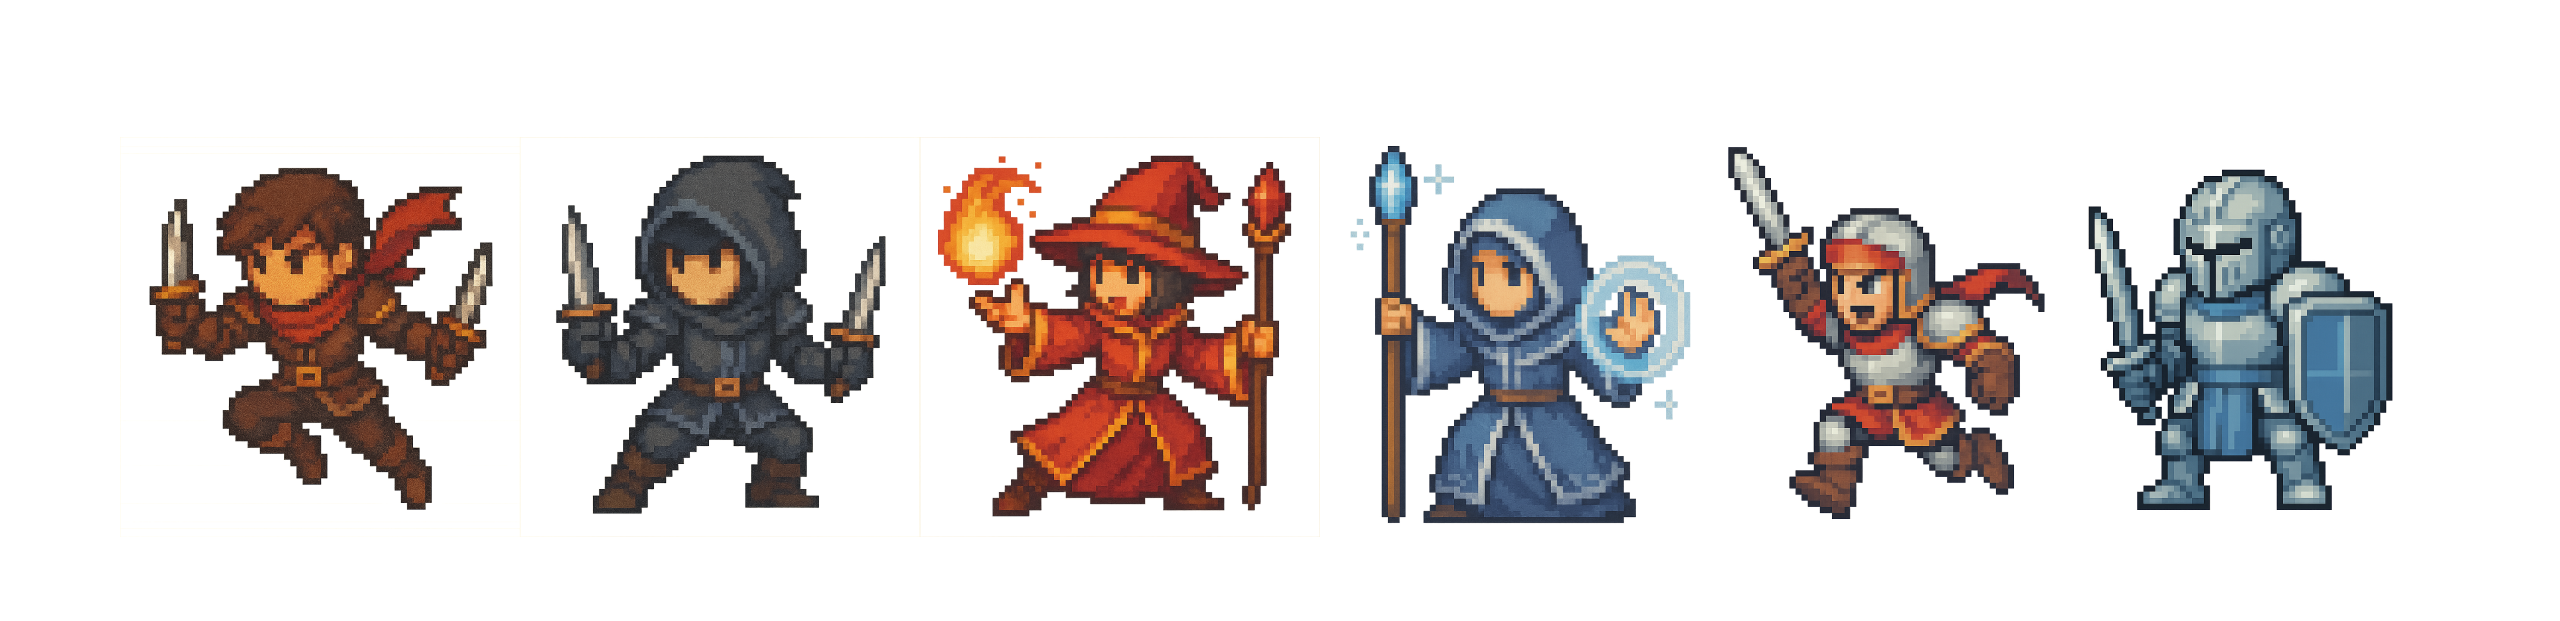
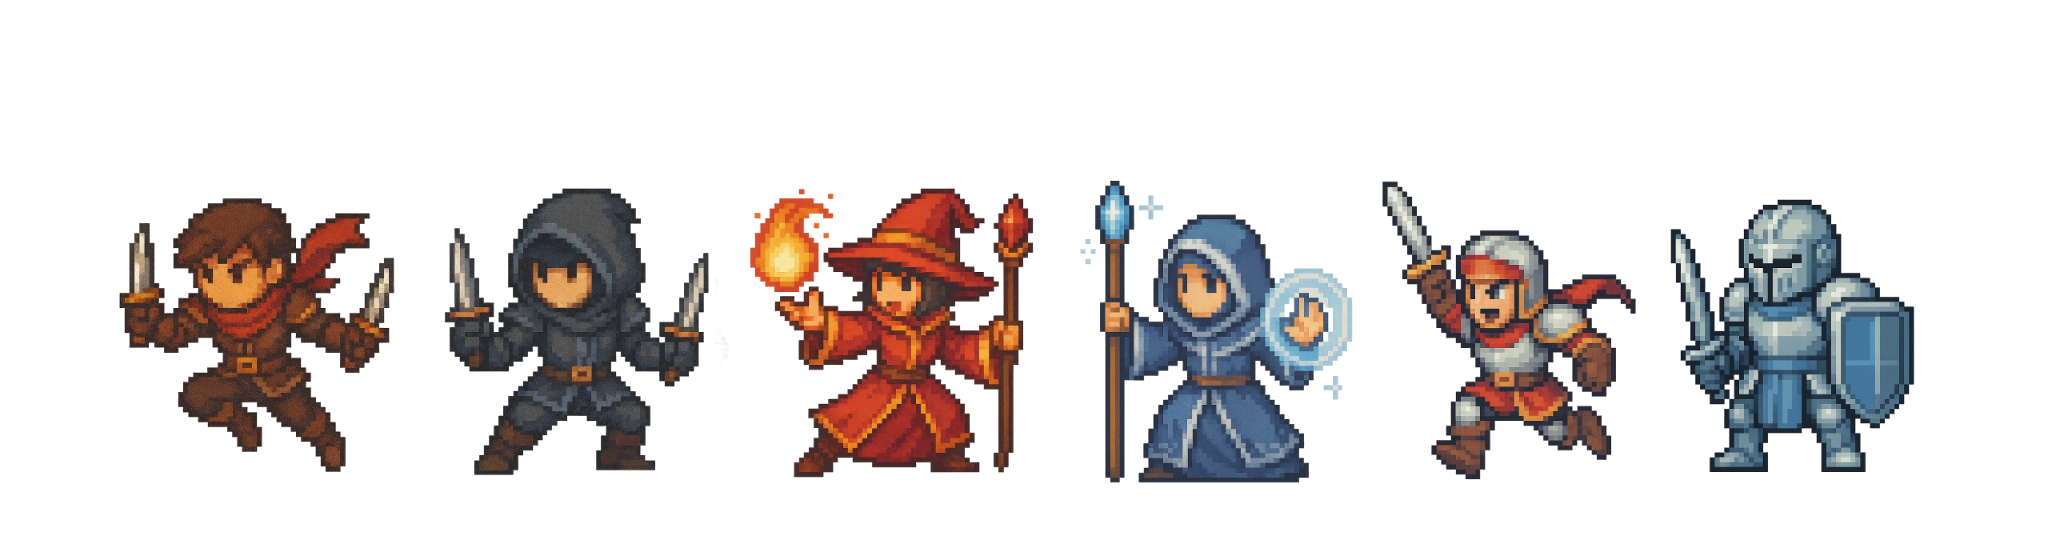
헤더 따로 설정

Changed region(s): [[0.0312, 0.2429, 0.9375, 0.8804]]

diff --git a/frontend/src/Search.css b/frontend/src/Search.css
@@ -1,37 +1,10 @@
+@import './common.css';
+
 body {
   margin: 0;
   font-family: Arial, sans-serif;
-}
-
-.header {
-  display: flex;
-  justify-content: space-between;
-  align-items: center;
-  background-color: #f5f5f5;
-  padding-left: 30px;
-  padding-right: 30px;
-  box-shadow: 0 4px 6px rgba(0, 0, 0, 0.1);
-}
-
-.logo {
-  width: 150px;
-  height: auto;
-}
-
-.nav {
-  display: flex;
-  gap: 50px;
-}
-
-.nav-link {
-  text-decoration: none;
-  color: gray;
-  font-size: 16px;
-}
-
-.nav-link.active {
-  color: black;
-  font-weight: bold;
+  background-color: #494949; /* 어두운 회색 */
+  color: #000000; /* 텍스트를 흰색으로 설정 */
 }
 
 .main-content {
@@ -46,7 +19,7 @@ body {
 }
 
 .search-input {
-  width: 600px;
+  width: 800px;
   padding: 10px;
   border: 1px solid black;
   border-radius: 20px;
@@ -90,20 +63,24 @@ body {
   height: auto;
 }
 
-.background-image {
-    opacity: 0.3;
+.bgimg {
+    position: relative;
+    left: 100px; /* 오른쪽으로 이동 */
+    width: 2100px;
 }
 
 .bginfo {
   text-align: center;
   font-size: 24px;
   margin-top: 120px;
+  color: #ffffff;
 }
 
 .bginfo2 {
   text-align: center;
   font-size: 20px;
   margin-top: 10px;
+  color: #ffffff; 
 }
 
 .loading {

diff --git a/frontend/src/common.css b/frontend/src/common.css
@@ -1,0 +1,32 @@
+.header {
+  display: flex;
+  justify-content: space-between;
+  align-items: center;
+  background-color: #ffc71e;
+  padding: 10px 20px;
+  box-shadow: 0 4px 6px rgba(0, 0, 0, 0.1);
+}
+
+.logo {
+  width: 120px;
+  height: 50px;
+}
+
+.nav {
+  display: flex;
+  gap: 5px; /* 간격을 줄여 글자 위치를 왼쪽으로 이동 */
+  font-size: 24px;
+}
+
+.nav-link {
+  text-decoration: none;
+  color: gray;
+  font-size: 20px !important; /* 모든 상태에서 글자 크기를 강제로 24px로 설정 */
+  margin-right: 20px; /* 글자를 추가로 왼쪽으로 이동 */
+}
+
+.nav-link.active {
+  color: black;
+  font-weight: bold;
+  font-size: 24px; /* active 상태에서도 글자 크기를 24px로 설정 */
+}

diff --git a/frontend/src/Search.jsx b/frontend/src/Search.jsx
@@ -120,7 +120,7 @@ const Search = () => {
           <div className="background-image">
             <div className = 'bginfo'>내가 투자하는 종목의 RPG 캐릭터성을 알아보세요</div>
             <div className = 'bginfo2'>RPG 캐릭터에 대한 각각의 설명은 '캐릭터 소개' 페이지에서 확인할 수 있습니다.</div>
-            <img src="/asset/bg.png" alt="Background" />
+            <div className = 'bgimg'><img src="/asset/bg.png" alt="Background" /></div>
           </div>
         )}
       </main>

diff --git a/frontend/src/Character.css b/frontend/src/Character.css
@@ -1,16 +1,8 @@
+@import './common.css';
+
 body {
   margin: 0;
   font-family: Arial, sans-serif;
-}
-
-.header {
-  display: flex;
-  justify-content: space-between;
-  align-items: center;
-  background-color: #f5f5f5;
-  padding-left: 30px;
-  padding-right: 30px;
-  box-shadow: 0 4px 6px rgba(0, 0, 0, 0.1);
 }
 
 .logo {

diff --git a/frontend/src/Intro.css b/frontend/src/Intro.css
@@ -1,16 +1,8 @@
+@import './common.css';
+
 body {
   margin: 0;
   font-family: Arial, sans-serif;
-}
-
-.header {
-  display: flex;
-  justify-content: space-between;
-  align-items: center;
-  background-color: #f5f5f5;
-  padding-left: 30px;
-  padding-right: 30px;
-  box-shadow: 0 4px 6px rgba(0, 0, 0, 0.1);
 }
 
 .logo {

diff --git a/frontend/index.html b/frontend/index.html
@@ -3,7 +3,8 @@
   <head>
     <meta charset="UTF-8" />
     <meta name="viewport" content="width=device-width, initial-scale=1.0" />
-    <title>은행 해커톤</title>
+    <title>K-STOCK</title>
+    <link href="/src/index.css" rel="stylesheet">
   </head>
   <body>
     <div id="root"></div>

diff --git a/frontend/src/App.jsx b/frontend/src/App.jsx
@@ -8,6 +8,7 @@ const App = () => {
   return (
     <Router>
       <Routes>
+        <Route path="/" element={<Search />} />
         <Route path="/search" element={<Search />} />
         <Route path="/intro" element={<Intro />} />
         <Route path="/character" element={<Character />} />
